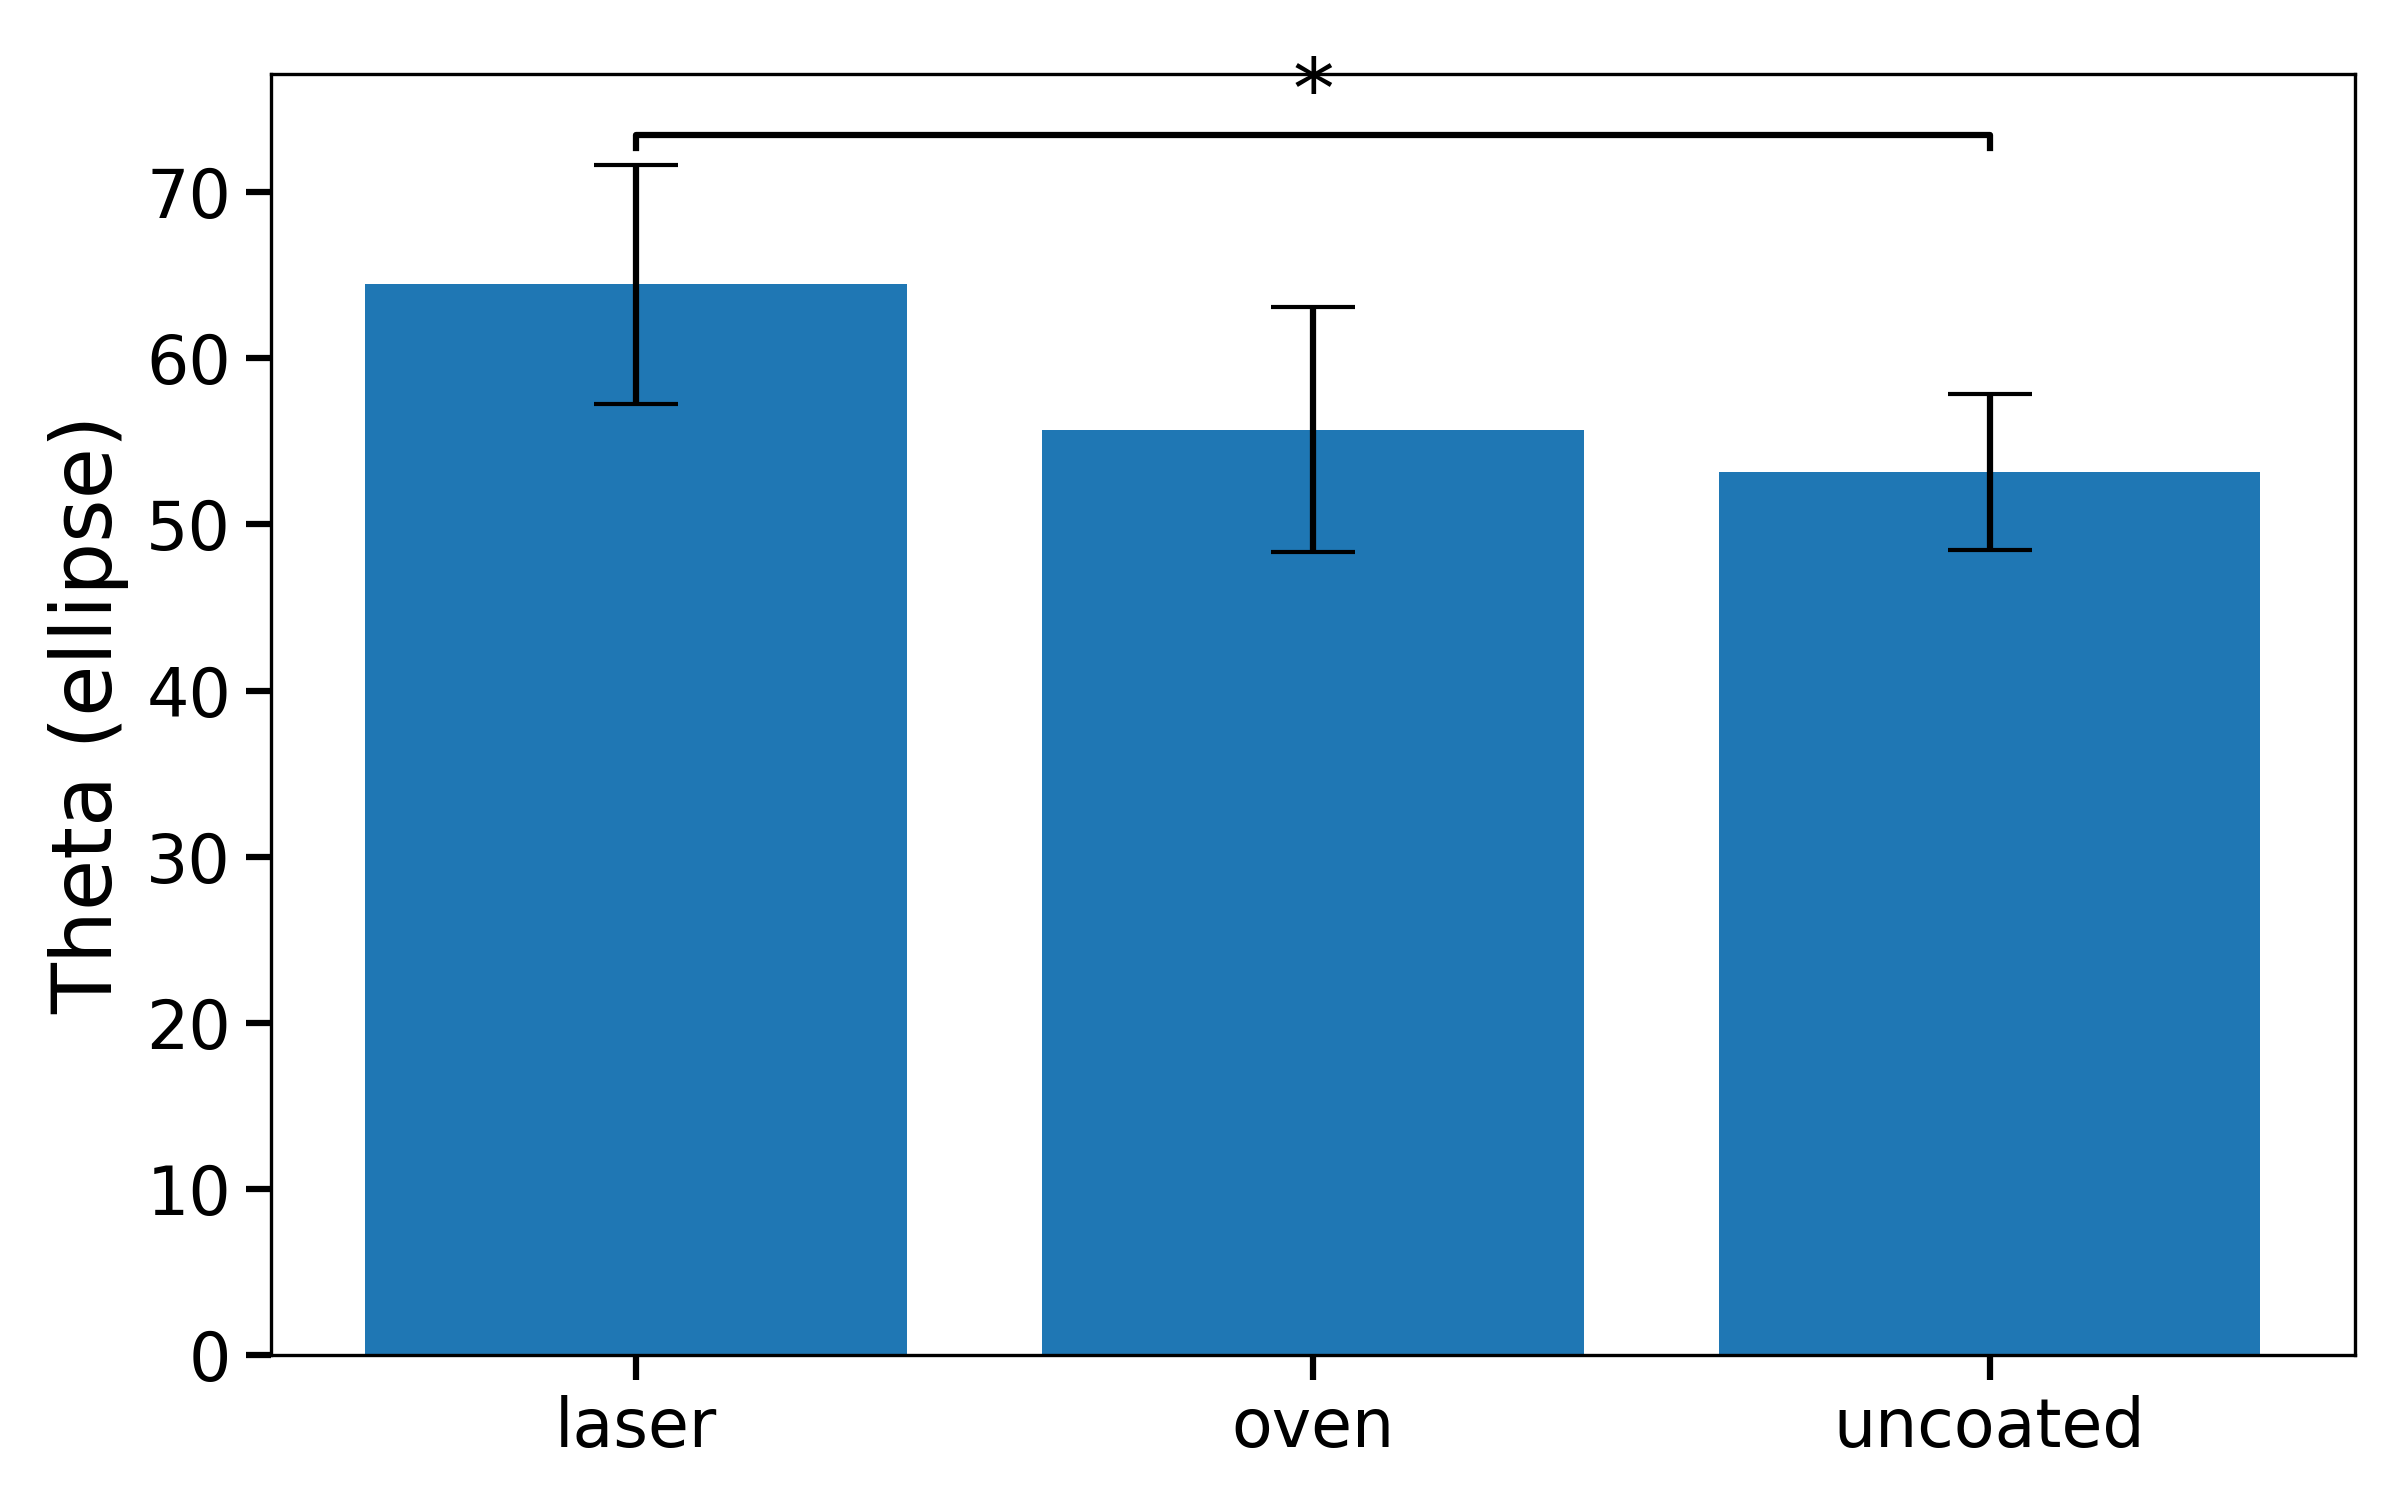
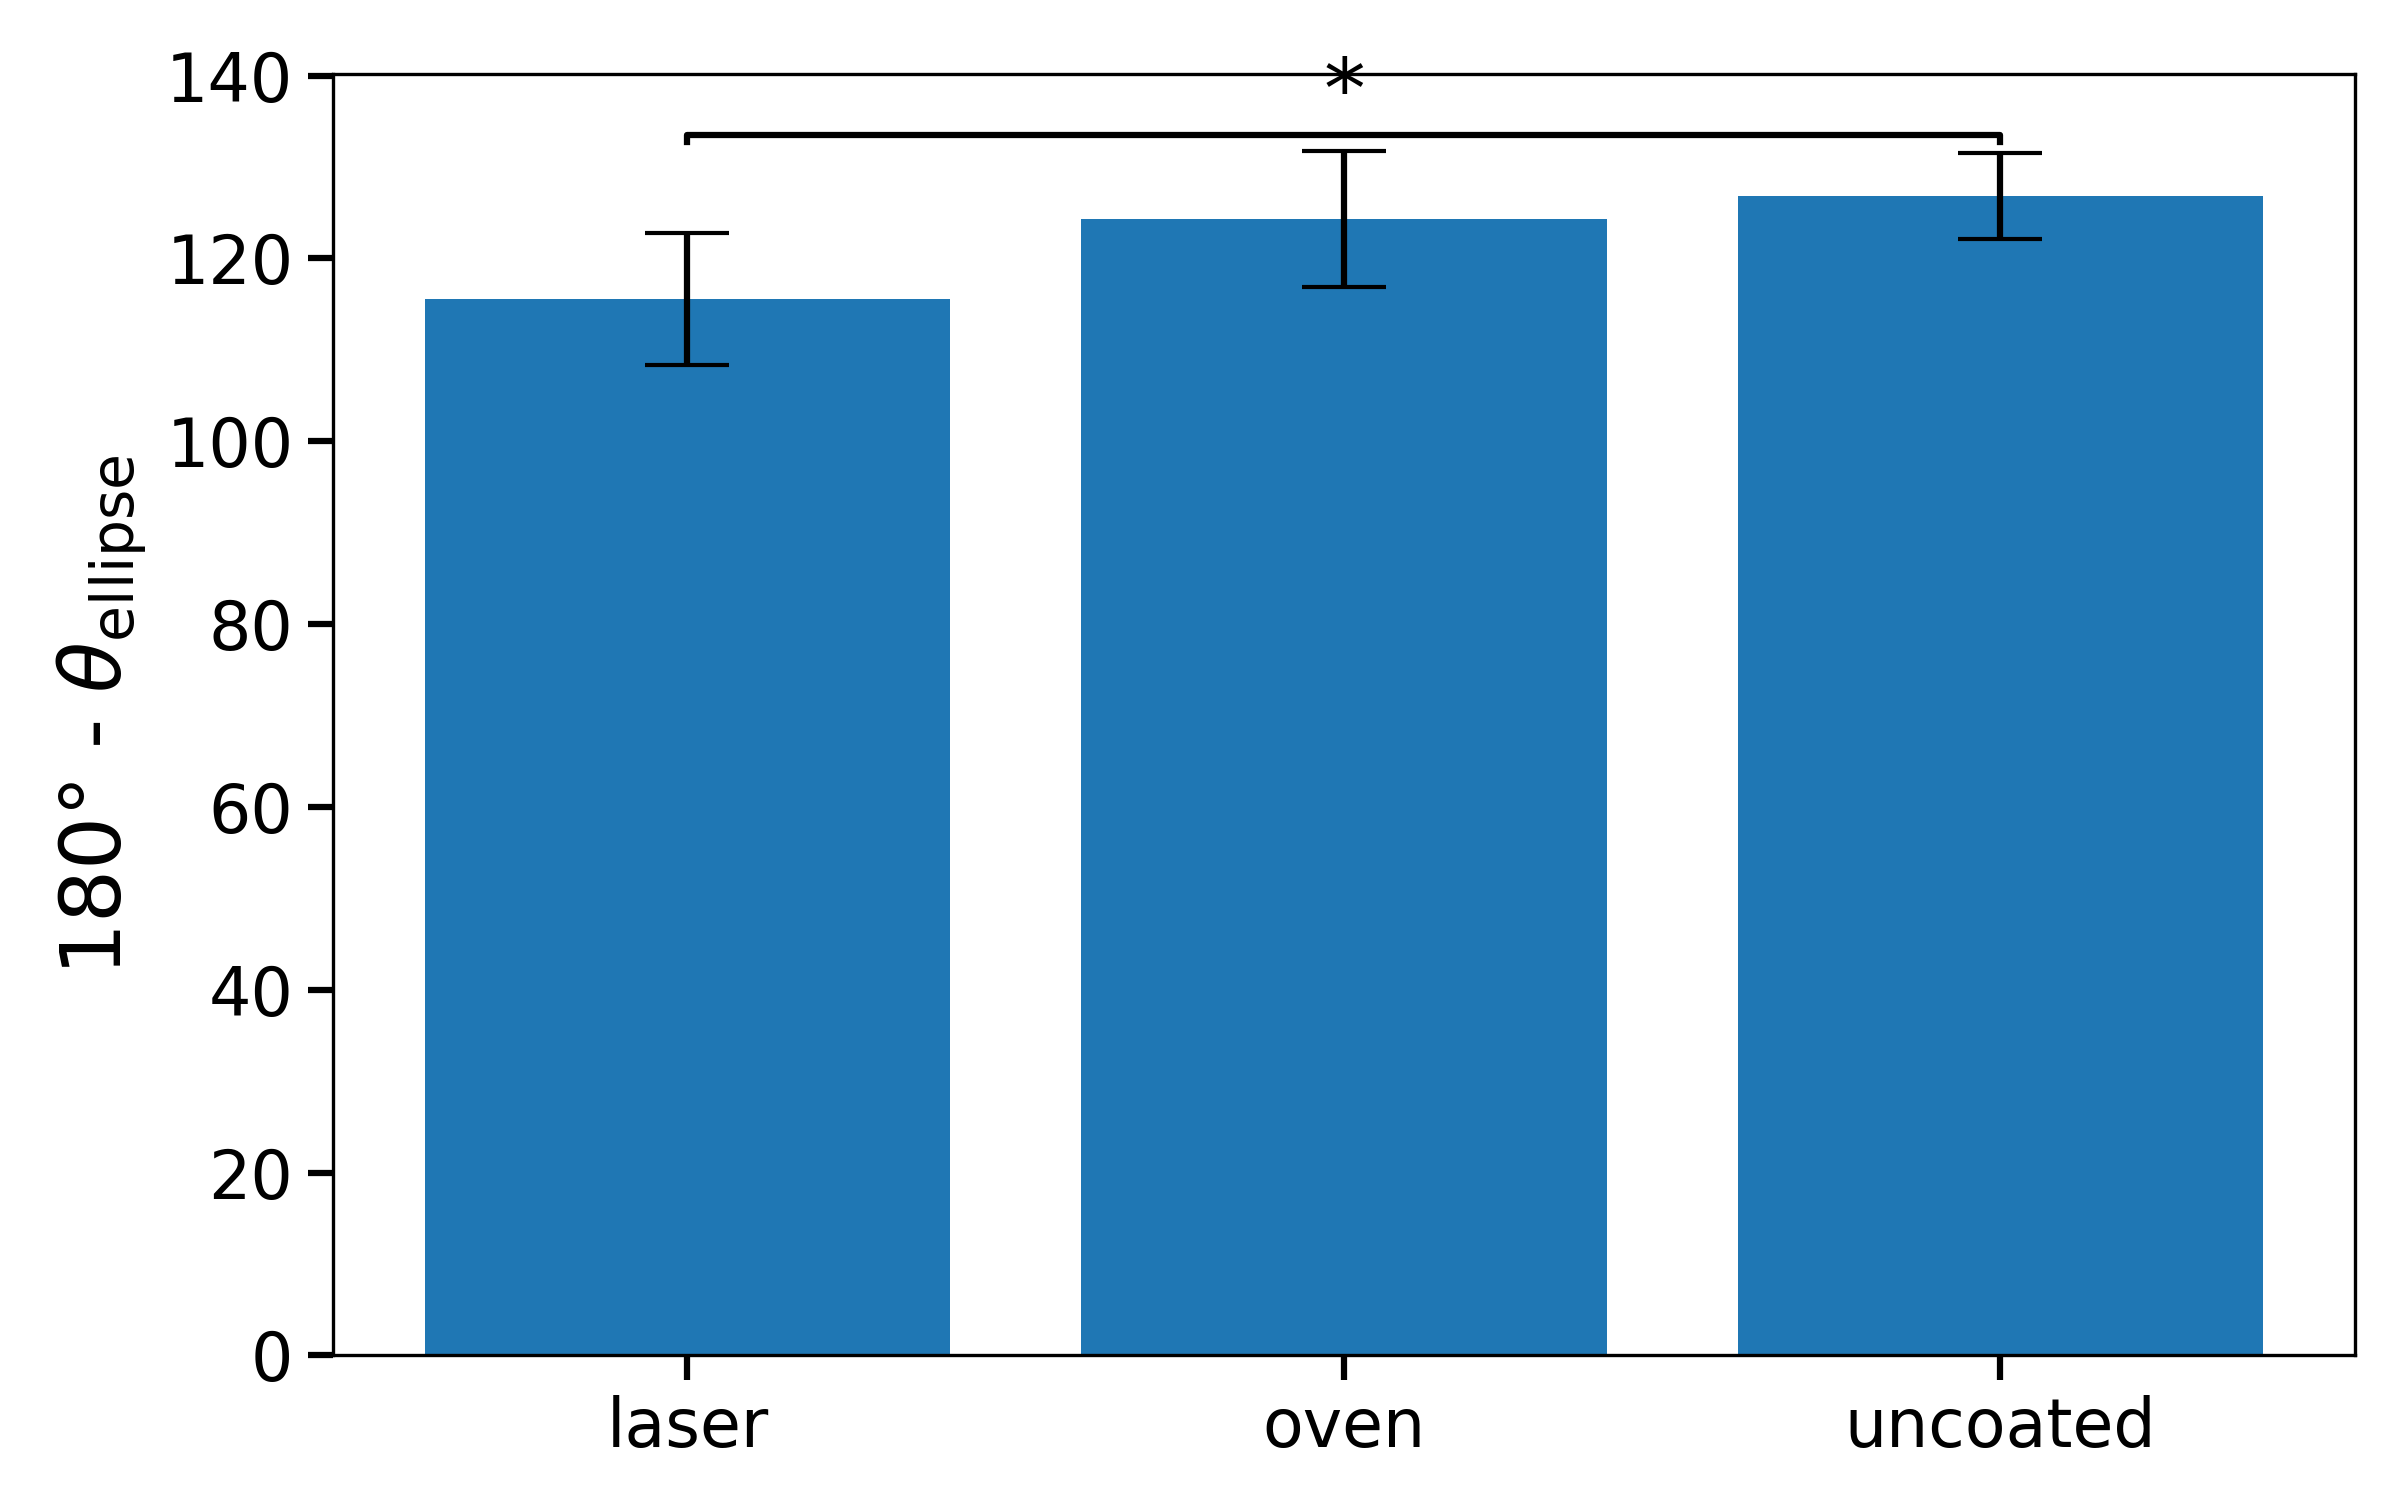
changed angles to reflect the inside angle because Dr Brugnara's plugin assumes the drop is upside down

diff --git a/contactangles.py b/contactangles.py
@@ -24,7 +24,6 @@ def add_sig_bar(ax, x1, x2, y, h=1.0, text="*", lw=1.5):
     ax.text((x1 + x2) / 2, y + h, text, ha="center", va="bottom", fontsize=20)
 
 def main(csv_path):
-    # --- Load data (tab-delimited) ---
     df = pd.read_csv(csv_path, sep="\t")
 
     # Optional: fix any comma-as-decimal issues just in case
@@ -32,12 +31,15 @@ def main(csv_path):
         return pd.to_numeric(s.astype(str).str.replace(",", ".", regex=False), errors="coerce")
 
     df["theta (ellipse)"] = to_float_series(df["theta (ellipse)"])
+    
+    # Create new column for 180 - theta
+    df["180-theta"] = 180 - df["theta (ellipse)"]
 
     # --- Derive category from 'image' (prefix before first underscore) ---
     df["category"] = df["image"].astype(str).str.split("_").str[0]
 
-    # --- Compute stats ---
-    stats = df.groupby("category")["theta (ellipse)"].agg(["mean", "std"]).reset_index()
+    # --- Compute stats using 180-theta instead of theta ---
+    stats = df.groupby("category")["180-theta"].agg(["mean", "std"]).reset_index()
     categories = list(stats["category"])
     x = np.arange(len(categories))
     means = stats["mean"].to_numpy()
@@ -47,22 +49,19 @@ def main(csv_path):
     fig, ax = plt.subplots(figsize=(8, 5))
     ax.bar(x, means, yerr=stds, capsize=10)
 
-    ax.set_ylabel("Theta (ellipse)", fontsize=20)
+    ax.set_ylabel(r"180° - $\theta_{\mathrm{ellipse}}$", fontsize=20)  # Updated label
     ax.set_xticks(x)
     ax.set_xticklabels(categories, fontsize=16)
     ax.tick_params(axis="y", labelsize=16, direction="out", length=6, width=1.5)
     ax.tick_params(axis="x", direction="out", length=6, width=1.5)
-    ax.grid(False)  # remove grid lines
+    ax.grid(False)
 
-    # --- Significance annotations (Welch's t-tests, alpha=0.05) ---
-    sig_pairs = significance_pairs(df, "category", "theta (ellipse)", alpha=0.05)
-    # Map category -> bar x position
+    # --- Significance annotations using 180-theta ---
+    sig_pairs = significance_pairs(df, "category", "180-theta", alpha=0.05)
     cat_to_x = {cat: xi for xi, cat in enumerate(categories)}
 
-    # Place brackets above bars, stacking if multiple
-    # Start just above the tallest error bar:
     top_y = np.max(means + stds)
-    step = 2.0  # vertical spacing between stacked brackets
+    step = 2.0
     current_level = 0
     for a, b, p in sig_pairs:
         x1, x2 = cat_to_x[a], cat_to_x[b]
@@ -71,8 +70,9 @@ def main(csv_path):
         current_level += 1
 
     plt.tight_layout()
-    plt.savefig("category_theta_ellipse_barplot_significance.png", dpi=300)
+    plt.savefig("category_180-theta_barplot_significance.png", dpi=300)
     plt.show()
+
 
 path = "contactAngles.csv"
 main(path)
